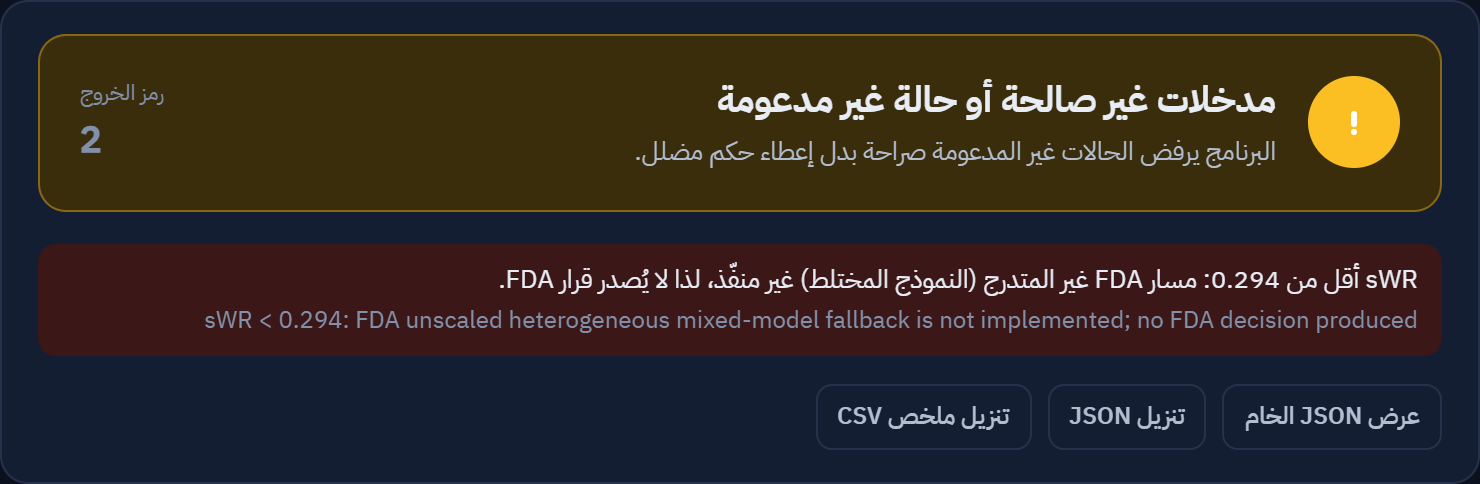
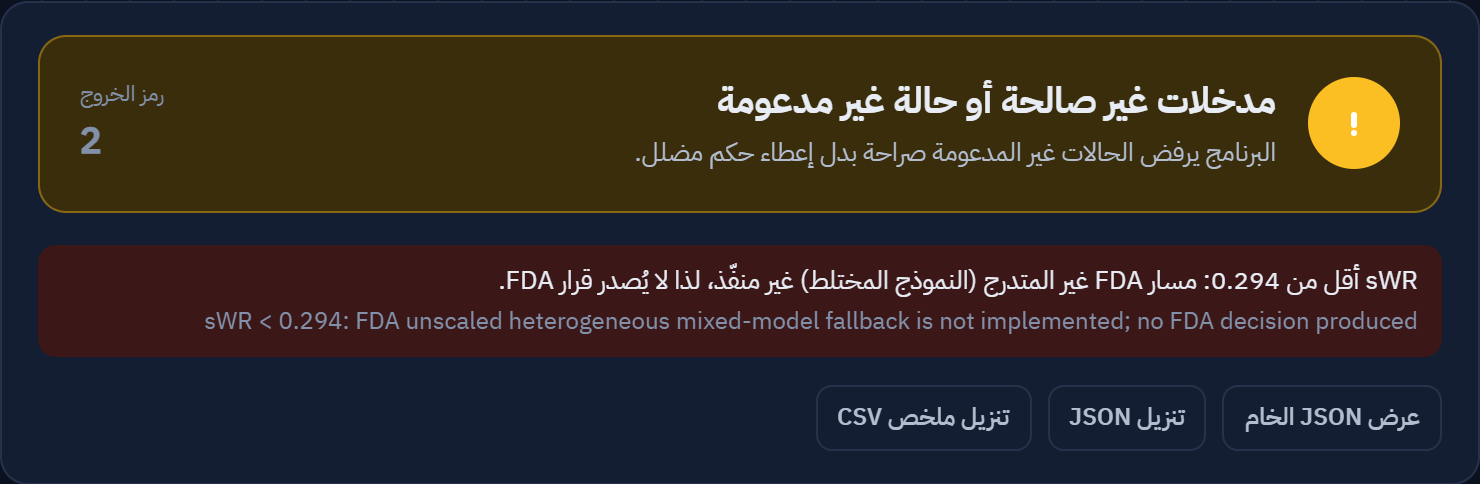
Refresh screenshots for the current version; add NCA screenshots
All eight screenshots were taken before the ICH M13A framework, the NCA tab
and the review fixes. They are regenerated from the current build with the
same scenarios and simulated data, and two NCA screenshots are added
(results, and parameters sent to the BE analysis). docs/capture_screenshots.mjs
drives headless Chrome over the DevTools protocol so they can be regenerated.

diff --git a/README.md b/README.md
@@ -62,6 +62,12 @@ Sources: [ICH M13A (FDA edition, Oct 2024)](https://www.fda.gov/media/165049/dow
 
 ## Screenshots
 
+All screenshots use simulated data and show the current version (regenerate with `node docs/capture_screenshots.mjs` while `python -m http.server 8766` serves the repository).
+
+| NCA tab — simulated 2×2 study, SFDA profile | NCA parameters sent to the BE analysis (AUC(0-t)) |
+|---|---|
+| ![NCA results](docs/screenshots/09-nca-results-ar.png) | ![NCA to BE](docs/screenshots/10-nca-to-be-ar.png) |
+
 | Arabic interface — example study, all criteria met | Highly variable drug — EMA ABEL + FDA RSABE |
 |---|---|
 | ![Arabic results](docs/screenshots/02-results-ar.png) | ![ABEL and RSABE](docs/screenshots/03-hvd-abel-rsabe-en.png) |
@@ -77,7 +83,7 @@ Sources: [ICH M13A (FDA edition, Oct 2024)](https://www.fda.gov/media/165049/dow
 
 ![Full page, Arabic](docs/screenshots/01-overview-ar.png)
 
-<img src="docs/screenshots/07-mobile-ar.png" width="320" alt="Mobile, Arabic">
+<img src="docs/screenshots/07-mobile-ar.png" width="320" alt="Mobile, Arabic, NCA tab">
 
 </details>
 
@@ -185,7 +191,7 @@ The web UI was checked against the engine's reference output (`engine/example_re
 
 > ⚠ **تنفيذ بحثي وليس اعتمادًا تنظيميًا.** يقبل التصاميم الكاملة القياسية فقط، ولا يغني عن خطة التحليل الإحصائي أو الإرشادات الخاصة بالمنتج. راجع [`engine/اقرأني.md`](engine/اقرأني.md).
 
-**الرابط المباشر:** https://bioequivalence-lab.vercel.app — لقطات الشاشة في الأعلى، وجميعها ببيانات مُحاكاة.
+**الرابط المباشر:** https://bioequivalence-lab.vercel.app — لقطات الشاشة في الأعلى محدَّثة للنسخة الحالية (ومنها تبويب NCA)، وجميعها ببيانات مُحاكاة؛ يعيد السكربت `docs/capture_screenshots.mjs` توليدها.
 
 **إطار SFDA / الخليجي:** اختيار «SFDA / الخليجي» في الواجهة (أو `--profile sfda`) يطبّق دليل التكافؤ الحيوي الخليجي DS-G-010 V3.1: تحليل ANOVA بتأثيرات ثابتة، وتقريب حدود فترة الثقة لمنزلتين، وتوسيع الحدود (ABEL) لـ Cmax فقط، وعدم استخدام RSABE، وحد أدنى 18 مشاركًا قابلًا للتقييم، واستبعاد الفترة التي يتجاوز فيها تركيز ما قبل الجرعة 5% من Cmax (عمود `predose` اختياري)، وفترة ثقة معدّلة للتصميم على مرحلتين (مثل 94.12%) مع عمود `stage`، وإخراج جدول ANOVA كاملًا يتضمن حدّ المرحلة، وعرض (دون استبعاد) كل مرجع مساحته أقل من 5% من المتوسط الهندسي. قاعدة ما قبل الجرعة للدراسات أحادية الجرعة فقط. وللمواد داخلية المنشأ يطرح البرنامج خط الأساس (عمود `baseline`) أو يشترط تأكيدًا صريحًا بأن القيم مصححة، وإلا يرفض التحليل. استبعاد القيء وفحص تغطية AUC(0-t) لـ 80% في تبويب NCA. غير منفّذ: تصحيح المحتوى، ومعامل f2، وقاعدة بيانات الأدلة الخاصة بالمنتجات.
 
